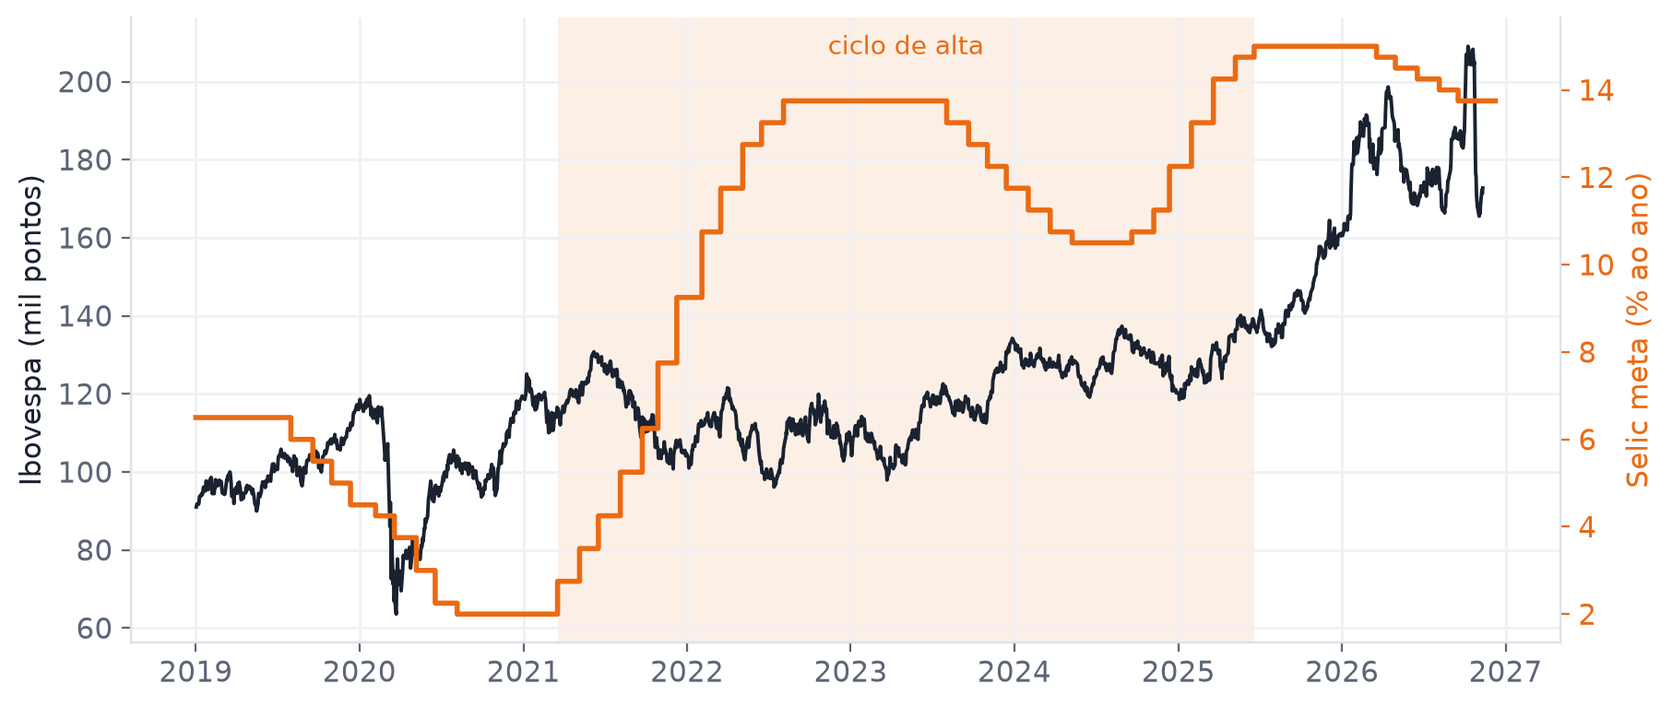
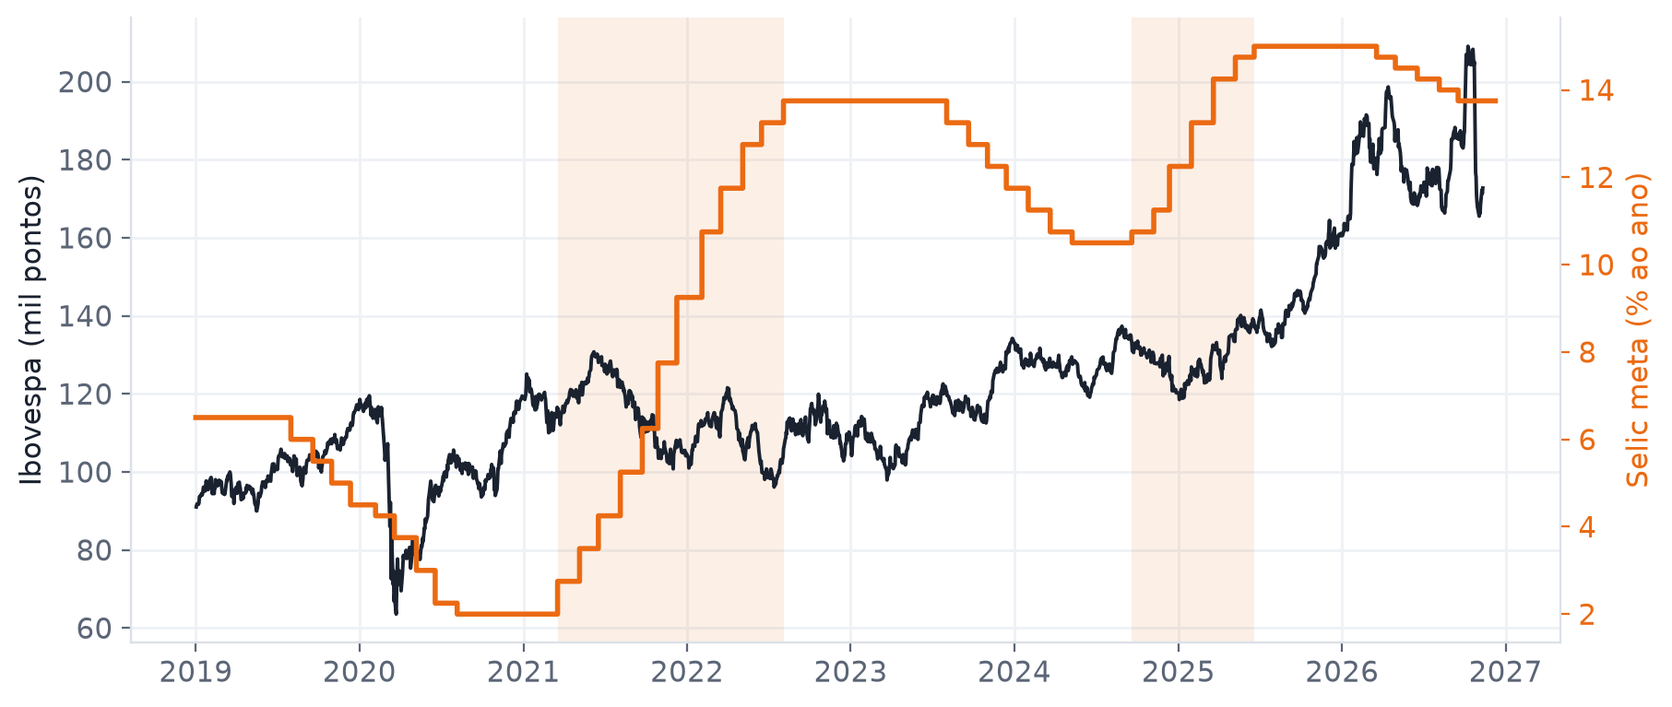
Inclui a eleição de 2026, separa os dois ciclos de alta da Selic e ajusta textos e gráficos
Claude-Session: https://claude.ai/code/session_011L5h6MgqsM4BBUunXoty9V

Changed region(s): [[0.4633, 0.0, 0.6795, 0.9296]]

diff --git a/docs/index.html b/docs/index.html
@@ -4,7 +4,7 @@
 <meta charset="UTF-8">
 <meta name="viewport" content="width=device-width, initial-scale=1">
 <title>O Mercado Não Mente | Vitor Del Bosque Lima</title>
-<meta name="description" content="Análise de dados da bolsa brasileira: pandemia, juros e eleição contados pelos preços.">
+<meta name="description" content="Análise de dados da bolsa brasileira: pandemia, juros e eleições contados pelos preços.">
 <link rel="preconnect" href="https://fonts.googleapis.com"><link rel="preconnect" href="https://fonts.gstatic.com" crossorigin>
 <link href="https://fonts.googleapis.com/css2?family=Bricolage+Grotesque:opsz,wght@12..96,700;12..96,800&family=IBM+Plex+Sans:wght@400;500;600&display=swap" rel="stylesheet">
 <style>
@@ -40,24 +40,25 @@ a{color:var(--accent)}
 <figure><img src="img/1_pandemia.png" alt="Gráfico do Ibovespa entre 2019 e 2021 com a queda da pandemia destacada"><figcaption>Ibovespa no fechamento diário. Fonte: Yahoo Finance.</figcaption></figure>
 
 <h2>2. O que aconteceu com a bolsa quando os juros subiram</h2>
-<p>Na pandemia o Banco Central baixou a Selic até 2,00% ao ano, o menor nível desde que a taxa existe. Em 18/03/2021 ele começou a subir de novo e só parou em 15,00%, em 19/06/2025.</p>
-<figure><img src="img/2_selic_ibovespa.png" alt="Ibovespa e Selic meta desde 2019"><figcaption>Ibovespa (linha escura) e Selic meta (laranja). A faixa marca o período de alta. Fontes: Yahoo Finance e Banco Central (série 432 do SGS).</figcaption></figure>
-<p>Minha hipótese era simples. Com juro alto, comprar a prazo fica caro, então o varejo deveria sofrer, e banco tende a lucrar mais com crédito. Comparei o Ibovespa com o Itaú e a Magazine Luiza durante a alta: o índice terminou em +20,8%, o Itaú em <span class="num">+83,2%</span> e a Magazine Luiza em <span class="num">-95,4%</span>.</p>
+<p>Na pandemia o Banco Central baixou a Selic até 2,00% ao ano, o menor nível desde que a taxa existe. Em 18/03/2021 ele começou a subir de novo e chegou a 13,75% em 04/08/2022. Depois de um tempo parada, a taxa caiu até 10,50%, voltou a subir em 19/09/2024 e foi até 15,00%, em 19/06/2025. O corte seguinte só começou em 19/03/2026.</p>
+<figure><img src="img/2_selic_ibovespa.png" alt="Ibovespa e Selic meta desde 2019"><figcaption>Ibovespa (linha escura) e Selic meta (laranja). As faixas marcam os dois períodos de alta. Fontes: Yahoo Finance e Banco Central (série 432 do SGS).</figcaption></figure>
+<p>Minha hipótese era simples. Com juro alto, comprar a prazo fica caro, então o varejo deveria sofrer, e banco tende a lucrar mais com crédito. Comparei o Ibovespa com o Itaú e a Magazine Luiza durante a primeira alta, de 2,00% para 13,75%: o índice terminou em -7,8%, o Itaú em <span class="num">-10,2%</span> e a Magazine Luiza em <span class="num">-85,0%</span>.</p>
 <figure><img src="img/3_vencedores_perdedores.png" alt="Itaú, Ibovespa e Magazine Luiza em base 100 no ciclo de alta da Selic"><figcaption>Base 100 no primeiro dia de alta da Selic.</figcaption></figure>
-<p>Dessa vez a hipótese bateu. A distância entre os dois foi de 179 pontos percentuais no mesmo intervalo, com a mesma taxa de juros valendo para os dois.</p>
+<p>Só metade da hipótese bateu. A Magazine Luiza derreteu, mas o Itaú não se salvou e terminou um pouco abaixo do próprio Ibovespa. Uma explicação possível é que o juro alto deixa o crédito mais caro, mas também faz mais gente atrasar pagamento, e uma coisa compensou a outra.</p>
 
-<h2>3. O dia seguinte ao primeiro turno de 2022</h2>
-<p>No pregão depois do primeiro turno, Petrobras andou <span class="num">+8,0%</span>. Num dia comum daquele ano, a oscilação típica era de 2,3%, então o movimento foi umas 3 vezes maior que o normal.</p>
-<table><thead><tr><th>Ativo</th><th>1º turno (02/10/2022)</th><th>2º turno (30/10/2022)</th><th>Dia típico em 2022</th></tr></thead><tbody><tr><td>Ibovespa</td><td>+5,5%</td><td>+1,3%</td><td>1,2%</td></tr><tr><td>Petrobras</td><td>+8,0%</td><td>-8,5%</td><td>2,3%</td></tr><tr><td>Itaú</td><td>+6,1%</td><td>+2,9%</td><td>1,5%</td></tr><tr><td>Vale</td><td>+2,7%</td><td>-0,5%</td><td>2,4%</td></tr></tbody></table>
-<figure><img src="img/4_eleicao.png" alt="Variação dos ativos nos pregões seguintes aos turnos da eleição de 2022"><figcaption>Variação no pregão seguinte a cada turno. O dia típico é o desvio padrão dos retornos diários de janeiro a setembro de 2022.</figcaption></figure>
+<h2>3. O dia seguinte às eleições de 2022 e 2026</h2>
+<p>Em 2022, no pregão depois do primeiro turno, o Ibovespa subiu 5,5%, umas 5 vezes a oscilação de um dia comum daquele ano, e a Petrobras subiu 8,0%. No segundo turno, a Petrobras fez o caminho contrário e caiu 8,5%.</p>
+<p>Em 2026 os movimentos foram maiores. No pregão depois do primeiro turno, o Ibovespa subiu 7,7%, umas 7 vezes a oscilação de um dia comum daquele ano, e o Itaú subiu 10,4%. Depois do segundo turno, o índice caiu 13,9%, a maior queda num dia desde 16/03/2020, no começo da pandemia. Como passou de 10%, a queda acionou o circuit breaker da B3, que paralisa os negócios por meia hora.</p>
+<table><thead><tr><th>Pregão seguinte ao</th><th>Ibovespa</th><th>Petrobras</th><th>Itaú</th><th>Vale</th></tr></thead><tbody><tr><td>1º turno, 2022</td><td>+5,5%</td><td>+8,0%</td><td>+6,1%</td><td>+2,7%</td></tr><tr><td>2º turno, 2022</td><td>+1,3%</td><td>-8,5%</td><td>+2,9%</td><td>-0,5%</td></tr><tr><td>1º turno, 2026</td><td>+7,7%</td><td>+8,2%</td><td>+10,4%</td><td>-1,0%</td></tr><tr><td>2º turno, 2026</td><td>-13,9%</td><td>-8,2%</td><td>-13,7%</td><td>+4,0%</td></tr></tbody></table>
+<figure><img src="img/4_eleicao.png" alt="Variação dos ativos nos pregões seguintes aos turnos das eleições de 2022 e 2026"><figcaption>Variação no pregão seguinte a cada turno. Num dia comum de janeiro a setembro, o Ibovespa oscilava cerca de 1,2% nos dois anos (desvio padrão dos retornos diários).</figcaption></figure>
 
 <h2>4. Quem ganhou da inflação desde 2019</h2>
-<p>No período, o IPCA acumulou +50,4%. Então não basta o ativo subir, ele precisa subir mais que isso para o dinheiro valer mais do que no começo. Magazine Luiza e Dólar não conseguiram.</p>
+<p>No período, o IPCA acumulou +50,4%. Então não basta o ativo subir, ele precisa subir mais que isso para o dinheiro valer mais do que no começo. A Magazine Luiza e o dólar não conseguiram.</p>
 <figure><img src="img/5_acumulado.png" alt="Quanto viraram mil reais aplicados em cada ativo desde 2019"><figcaption>Preços ajustados por dividendos e desdobramentos. As barras em laranja ficaram abaixo da inflação. Fontes: Yahoo Finance e Banco Central (série 433 do SGS).</figcaption></figure>
 
 <h2>De onde vêm os números</h2>
 <p>Os preços vêm do Yahoo Finance pela biblioteca yfinance, e a Selic e o IPCA vêm da API do Banco Central. Tratei tudo em Python com pandas e fiz os gráficos com matplotlib. Os números do texto são calculados pelo próprio código, que roda de novo toda sexta pelo GitHub Actions, então esta página se atualiza sozinha.</p>
-<p>Uma ressalva importante: olhar o preço em volta de um fato não prova que o fato causou o movimento, porque muita coisa acontece ao mesmo tempo. E nada aqui é recomendação de investimento.</p>
+<p>Olhar o preço em volta de um fato não prova que foi ele que causou o movimento, porque muita coisa acontece ao mesmo tempo. E nada aqui é recomendação de investimento.</p>
 
-<div class="meta">Dados atualizados em 2026-11-11. Código em <a href="https://github.com/VitorDBL/o-mercado-nao-mente">github.com/VitorDBL/o-mercado-nao-mente</a> · <a href="https://vitordbl.github.io">vitordbl.github.io</a></div>
+<div class="meta">Dados atualizados em 11/11/2026. Código em <a href="https://github.com/VitorDBL/o-mercado-nao-mente">github.com/VitorDBL/o-mercado-nao-mente</a> · <a href="https://vitordbl.github.io">vitordbl.github.io</a></div>
 </main></body></html>

diff --git a/src/analise.py b/src/analise.py
@@ -40,6 +40,7 @@ plt.rcParams.update({
     "xtick.color": "#5B6576",
     "ytick.color": "#5B6576",
     "axes.grid": True,
+    "axes.axisbelow": True,
     "grid.color": "#EEF1F5",
     "grid.linewidth": 1,
     "figure.dpi": 100,
@@ -136,12 +137,26 @@ def ciclos_selic(selic: pd.Series) -> dict:
     piso = s[piso_data]
     sobe = s[piso_data:]
     inicio_alta = sobe[sobe > piso].index[0]
-    teto = s[inicio_alta:].max()
-    teto_data = s[inicio_alta:][s[inicio_alta:] == teto].index[0]
+    # fim da primeira alta: último aumento antes do primeiro corte
+    depois = s[inicio_alta:]
+    primeiro_corte = depois[depois.diff() < 0].index
+    ate_corte = depois[:primeiro_corte[0]] if len(primeiro_corte) else depois
+    teto1 = ate_corte.max()
+    teto1_data = ate_corte[ate_corte == teto1].index[0]
+    teto = depois.max()
+    teto_data = depois[depois == teto].index[0]
+    piso2 = s[teto1_data:teto_data].min() if teto_data > teto1_data else None
+    piso2_data = s[teto1_data:teto_data].idxmin() if piso2 is not None else None
+    if piso2 is not None:
+        subida2 = s[piso2_data:teto_data]
+        inicio_alta2 = subida2[subida2 > piso2].index[0]
+    else:
+        inicio_alta2 = None
     apos = s[teto_data:]
     cortes = apos[apos < teto]
     inicio_corte = cortes.index[0] if len(cortes) else None
-    return {"piso": piso, "inicio_alta": inicio_alta, "teto": teto, "teto_data": teto_data,
+    return {"piso": piso, "inicio_alta": inicio_alta, "teto1": teto1, "teto1_data": teto1_data,
+            "piso2": piso2, "inicio_alta2": inicio_alta2, "teto": teto, "teto_data": teto_data,
             "inicio_corte": inicio_corte}
 
 
@@ -153,7 +168,7 @@ def juros(d: Dados) -> dict:
         serie = p[col][a:b]
         return serie.iloc[-1] / serie.iloc[0] - 1
 
-    alta = (c["inicio_alta"], c["teto_data"])
+    alta = (c["inicio_alta"], c["teto1_data"])
     ativos = ["Ibovespa", "Itaú (ITUB4)", "Magazine Luiza (MGLU3)"]
     ret_alta = {a: ret(a, *alta) for a in ativos}
 
@@ -162,6 +177,8 @@ def juros(d: Dados) -> dict:
     ax.plot(ibov.index, ibov / 1000, color=GRAFITE, lw=1.4, label="Ibovespa (mil pontos)")
     ax.set_ylabel("Ibovespa (mil pontos)")
     ax.axvspan(*alta, color=LARANJA, alpha=0.10, lw=0)
+    if c["inicio_alta2"] is not None:
+        ax.axvspan(c["inicio_alta2"], c["teto_data"], color=LARANJA, alpha=0.10, lw=0)
     ax2 = ax.twinx()
     selic = d.selic.resample("D").ffill()["2019-01-01":]
     ax2.step(selic.index, selic, where="post", color=LARANJA, lw=2, label="Selic meta (% a.a.)")
@@ -170,8 +187,6 @@ def juros(d: Dados) -> dict:
     ax2.grid(False)
     ax2.spines["right"].set_visible(True)
     ax2.spines["right"].set_color(CINZA_CLARO)
-    ax.text(alta[0] + (alta[1] - alta[0]) / 2, ax.get_ylim()[1] * 0.98, "ciclo de alta",
-            ha="center", va="top", color=LARANJA, fontsize=10)
     fmt_eixo_data(ax)
     img1 = salvar(fig, "2_selic_ibovespa.png")
 
@@ -179,13 +194,22 @@ def juros(d: Dados) -> dict:
     base = base / base.iloc[0] * 100
     fig, ax = plt.subplots(figsize=(10, 4.4))
     cores = {"Ibovespa": GRAFITE, "Itaú (ITUB4)": LARANJA, "Magazine Luiza (MGLU3)": AZUL}
+    # posições dos rótulos no fim das linhas, afastadas para não encostarem
+    finais = sorted(ativos, key=lambda a: base[a].iloc[-1])
+    pos, ultimo = {}, None
+    for a in finais:
+        y = base[a].iloc[-1]
+        if ultimo is not None and y - ultimo < 7:
+            y = ultimo + 7
+        pos[a] = ultimo = y
     for a in ativos:
         ax.plot(base.index, base[a], color=cores[a], lw=1.8)
         ax.annotate(f"{a.split(' (')[0]} {pct(ret_alta[a], 0)}", (base.index[-1], base[a].iloc[-1]),
-                    xytext=(6, 0), textcoords="offset points", va="center", color=cores[a],
+                    xytext=(base.index[-1] + pd.Timedelta(days=10), pos[a]), textcoords="data", va="center", color=cores[a],
                     fontsize=10, fontweight="bold")
     ax.axhline(100, color=CINZA, lw=1, ls="--")
     ax.set_ylabel("Base 100 no início da alta")
+    ax.set_xlim(right=base.index[-1] + (base.index[-1] - base.index[0]) * 0.16)
     ax.xaxis.set_major_formatter(mdates.DateFormatter("%b/%y"))
     img2 = salvar(fig, "3_vencedores_perdedores.png")
 
@@ -195,7 +219,9 @@ def juros(d: Dados) -> dict:
 # ---------------------------------------------------------------- capítulo 3
 def eleicao(d: Dados) -> dict:
     p = d.precos
-    datas = {"1º turno (02/10/2022)": "2022-10-03", "2º turno (30/10/2022)": "2022-10-31"}
+    datas = {"1º turno de 2022": "2022-10-03", "2º turno de 2022": "2022-10-31",
+             "1º turno de 2026": "2026-10-05", "2º turno de 2026": "2026-10-26"}
+    datas = {r: d_ for r, d_ in datas.items() if pd.Timestamp(d_) <= p.index.max()}
     ativos = ["Ibovespa", "Petrobras (PETR4)", "Itaú (ITUB4)", "Vale (VALE3)"]
     diarios = p[ativos].pct_change()
     tabela = {}
@@ -203,25 +229,41 @@ def eleicao(d: Dados) -> dict:
         dia = diarios.index[diarios.index.get_indexer([pd.Timestamp(dia)], method="bfill")[0]]
         tabela[rotulo] = {a: diarios.loc[dia, a] for a in ativos}
 
-    vol_normal = diarios["2022-01-01":"2022-09-30"].std()
+    anos = sorted({r[-4:] for r in tabela})
+    vol_normal = {ano: diarios[f"{ano}-01-01":f"{ano}-09-30"].std() for ano in anos}
 
-    fig, ax = plt.subplots(figsize=(10, 4.2))
+    # maior queda do Ibovespa num dia antes de cada pregão de eleição, para dar escala
+    ibov = diarios["Ibovespa"]
+
+    fig, eixos = plt.subplots(1, len(anos), figsize=(10, 4.4), sharey=True, squeeze=False)
     largura = 0.38
     xs = range(len(ativos))
-    for k, (rotulo, cor) in enumerate(zip(tabela, [LARANJA, GRAFITE])):
-        vals = [tabela[rotulo][a] * 100 for a in ativos]
-        barras = ax.bar([x + (k - 0.5) * largura for x in xs], vals, largura, color=cor, label=rotulo)
-        for b, v in zip(barras, vals):
-            ax.annotate(f"{v:+.1f}%".replace(".", ","), (b.get_x() + b.get_width() / 2, v),
-                        xytext=(0, 4 if v >= 0 else -14), textcoords="offset points",
-                        ha="center", fontsize=9, color=GRAFITE)
-    ax.axhline(0, color=GRAFITE, lw=0.8)
-    ax.set_xticks(list(xs), [a.split(" (")[0] for a in ativos])
-    ax.set_ylabel("Variação no pregão seguinte (%)")
-    ax.legend(frameon=False, loc="lower left")
+    for ax, ano in zip(eixos[0], anos):
+        turnos = [r for r in tabela if r.endswith(ano)]
+        for k, (rotulo, cor) in enumerate(zip(turnos, [LARANJA, GRAFITE])):
+            vals = [tabela[rotulo][a] * 100 for a in ativos]
+            barras = ax.bar([x + (k - 0.5) * largura for x in xs], vals, largura, color=cor,
+                            label=rotulo.split(" de ")[0])
+            for b, v in zip(barras, vals):
+                ax.annotate(f"{v:+.1f}%".replace(".", ","), (b.get_x() + b.get_width() / 2, v),
+                            xytext=(0, 4 if v >= 0 else -13), textcoords="offset points",
+                            ha="center", fontsize=8.5, color=GRAFITE)
+        ax.axhline(0, color=GRAFITE, lw=0.8)
+        ax.set_xticks(list(xs), [a.split(" (")[0] for a in ativos], fontsize=9)
+        ax.set_title(f"Eleição de {ano}", fontsize=11, loc="left", color=GRAFITE)
+    eixos[0][0].set_ylabel("Variação no pregão seguinte (%)")
+    eixos[0][0].legend(frameon=False, loc="lower left")
     img = salvar(fig, "4_eleicao.png")
 
-    return {"tabela": tabela, "vol_normal": vol_normal, "img": img}
+    pior = {}
+    for rotulo, dia in datas.items():
+        dia = diarios.index[diarios.index.get_indexer([pd.Timestamp(dia)], method="bfill")[0]]
+        v = ibov.loc[dia]
+        antes = ibov[:dia].iloc[:-1]
+        pior_antes = antes[antes <= v]
+        pior[rotulo] = pior_antes.index[-1] if (v < 0 and len(pior_antes)) else None
+
+    return {"tabela": tabela, "vol_normal": vol_normal, "pior_desde": pior, "img": img}
 
 
 # ---------------------------------------------------------------- capítulo 4
@@ -242,9 +284,8 @@ def acumulado(d: Dados) -> dict:
         ax.annotate(f"R$ {v:,.0f}".replace(",", "."), (v, b.get_y() + b.get_height() / 2),
                     xytext=(6, 0), textcoords="offset points", va="center", fontsize=10, color=GRAFITE)
     ax.axvline(1000 * (1 + inflacao), color=CINZA, ls="--", lw=1.2)
-    ax.annotate(f"R$ 1.000 corrigidos pela\ninflação: R$ {1000 * (1 + inflacao):,.0f}".replace(",", "."),
-                (1000 * (1 + inflacao), len(ordem) - 0.5), xytext=(6, 0), textcoords="offset points",
-                fontsize=9, color="#5B6576", va="top")
+    ax.text(1000 * (1 + inflacao), 1.01, f"inflação: R$ {1000 * (1 + inflacao):,.0f}".replace(",", "."),
+            transform=ax.get_xaxis_transform(), ha="center", va="bottom", fontsize=9, color="#5B6576")
     ax.set_xlabel(f"Quanto viraram R$ 1.000 aplicados em {br(inicio)}")
     ax.grid(axis="y", visible=False)
     img = salvar(fig, "5_acumulado.png")
@@ -254,6 +295,64 @@ def acumulado(d: Dados) -> dict:
 
 
 # ---------------------------------------------------------------- relatório
+ARTIGOS = {"Ibovespa": "o Ibovespa", "Petrobras": "a Petrobras", "Itaú": "o Itaú", "Vale": "a Vale",
+           "Magazine Luiza": "a Magazine Luiza", "Dólar": "o dólar"}
+
+
+def com_artigo(ativo: str) -> str:
+    nome = ativo.split(" (")[0]
+    return ARTIGOS.get(nome, nome)
+
+
+def _mov(v: float) -> str:
+    return f"{'subiu' if v > 0 else 'caiu'} {pct(abs(v)).lstrip('+')}"
+
+
+def texto_eleicao(c3) -> str:
+    tab, vol = c3["tabela"], c3["vol_normal"]
+    paragrafos = []
+    anos = list(vol)
+    for i, ano in enumerate(anos):
+        t1, t2 = (tab.get(f"1º turno de {ano}"), tab.get(f"2º turno de {ano}"))
+        normal = vol[ano]
+        frases = []
+        if t1:
+            ib = t1["Ibovespa"]
+            m = max(t1, key=lambda a: abs(t1[a]))
+            f = f"Em {ano}, no pregão depois do primeiro turno, o Ibovespa {_mov(ib)}"
+            vezes = abs(ib) / normal["Ibovespa"]
+            if vezes >= 2:
+                f += f", umas {num(vezes, 0)} vezes a oscilação de um dia comum daquele ano"
+            if m != "Ibovespa" and abs(t1[m]) > abs(ib):
+                f += f", e {com_artigo(m)} {_mov(t1[m])}"
+            f += "."
+            if i > 0 and max(abs(v) for v in t1.values()) > max(abs(v) for v in tab[f"1º turno de {anos[0]}"].values()):
+                f = f.replace(f"Em {ano}, no", f"Em {ano} os movimentos foram maiores. No", 1)
+            frases.append(f)
+        if t2:
+            ib = t2["Ibovespa"]
+            if abs(ib) >= 2 * normal["Ibovespa"]:
+                f = f"Depois do segundo turno, o índice {_mov(ib)}"
+                desde = c3["pior_desde"].get(f"2º turno de {ano}")
+                if ib < 0 and desde is not None:
+                    f += f", a maior queda num dia desde {br(desde)}"
+                    if desde.year == 2020:
+                        f += ", no começo da pandemia"
+                f += "."
+                if ib <= -0.10:
+                    f += " Como passou de 10%, a queda acionou o circuit breaker da B3, que paralisa os negócios por meia hora."
+            else:
+                m = max(t2, key=lambda a: abs(t2[a]))
+                if t1 and t1[m] * t2[m] < 0:
+                    f = f"No segundo turno, {com_artigo(m)} fez o caminho contrário e {_mov(t2[m])}."
+                else:
+                    f = f"No segundo turno, o maior movimento foi d{com_artigo(m)}, que {_mov(t2[m])}."
+            frases.append(f)
+        if frases:
+            paragrafos.append("<p>" + " ".join(frases) + "</p>")
+    return "\n".join(paragrafos)
+
+
 def relatorio(d: Dados, c1, c2, c3, c4) -> str:
     rec_txt = (f"A volta demorou bem mais. O índice só fechou acima do topo anterior em {br(c1['recuperacao_data'])}, "
                f"uns {num(c1['meses_recuperacao'], 0)} meses depois do fundo."
@@ -265,30 +364,47 @@ def relatorio(d: Dados, c1, c2, c3, c4) -> str:
         hipotese_txt = (f"Dessa vez a hipótese bateu. A distância entre os dois foi de {num(abs(itau - magalu) * 100, 0)} "
                         "pontos percentuais no mesmo intervalo, com a mesma taxa de juros valendo para os dois.")
     elif itau > magalu:
-        hipotese_txt = ("A ordem foi a que eu esperava, com o Itaú na frente da Magazine Luiza, mas o Ibovespa não ficou no meio "
-                        "do caminho, então não dá para dizer que o juro explica tudo.")
+        hipotese_txt = (f"Só metade da hipótese bateu. A Magazine Luiza derreteu, mas o Itaú não se salvou e terminou "
+                        f"um pouco abaixo do próprio Ibovespa. Uma explicação possível é que o juro alto deixa o crédito "
+                        f"mais caro, mas também faz mais gente atrasar pagamento, e uma coisa compensou a outra.")
     else:
         hipotese_txt = ("Aqui a hipótese não se confirmou: a Magazine Luiza foi melhor que o Itaú no período. "
                         "Outros fatores pesaram mais que o juro.")
 
+    eleicao_txt = texto_eleicao(c3)
+    turnos = list(c3["tabela"])
+    ativos_el = list(next(iter(c3["tabela"].values())))
     linhas_eleicao = "".join(
-        f"<tr><td>{a.split(' (')[0]}</td>" + "".join(f"<td>{pct(c3['tabela'][r][a])}</td>" for r in c3["tabela"]) +
-        f"<td>{pct(c3['vol_normal'][a]).lstrip('+')}</td></tr>"
-        for a in next(iter(c3["tabela"].values()))
+        f"<tr><td>{r.replace(' de ', ', ')}</td>" + "".join(f"<td>{pct(c3['tabela'][r][a])}</td>" for a in ativos_el) + "</tr>"
+        for r in turnos
     )
-    primeiro = next(iter(c3["tabela"].values()))
-    maior_mov = max(primeiro, key=lambda a: abs(primeiro[a]))
-    vezes = abs(primeiro[maior_mov]) / c3["vol_normal"][maior_mov]
-    comparacao_txt = (f", então o movimento foi umas {num(vezes, 0)} vezes maior que o normal." if vezes >= 2
-                      else ". Ou seja, o dia foi agitado, mas dentro do que se via naquele ano.")
+    cab_eleicao = "".join(f"<th>{a.split(' (')[0]}</th>" for a in ativos_el)
+    tipicos = {ano: pct(v["Ibovespa"]).lstrip("+") for ano, v in c3["vol_normal"].items()}
+    if len(set(tipicos.values())) == 1:
+        tipico = f"cerca de {next(iter(tipicos.values()))}" + (" nos dois anos" if len(tipicos) == 2 else "")
+    else:
+        tipico = " e ".join(f"{v} em {ano}" for ano, v in tipicos.items())
 
-    perderam = [a.split(" (")[0] for a in c4["perderam"]]
+    perderam = [com_artigo(a) for a in c4["perderam"]]
     if not perderam:
         perderam_frase = "Todos os ativos que escolhi conseguiram."
     elif len(perderam) == 1:
         perderam_frase = f"Só {perderam[0]} não conseguiu."
     else:
-        perderam_frase = ", ".join(perderam[:-1]) + " e " + perderam[-1] + " não conseguiram."
+        lista = ", ".join(perderam[:-1]) + " e " + perderam[-1]
+        perderam_frase = lista[0].upper() + lista[1:] + " não conseguiram."
+
+    selic_txt = f"Em {br(c2['inicio_alta'])} ele começou a subir de novo e chegou a {num(c2['teto1'], 2)}% em {br(c2['teto1_data'])}."
+    if c2.get("piso2") is not None:
+        selic_txt += (f" Depois de um tempo parada, a taxa caiu até {num(c2['piso2'], 2)}%, voltou a subir em "
+                      f"{br(c2['inicio_alta2'])} e foi até {num(c2['teto'], 2)}%, em {br(c2['teto_data'])}.")
+    if c2.get("inicio_corte") is not None:
+        selic_txt += f" O corte seguinte só começou em {br(c2['inicio_corte'])}."
+    atualizado = d.atualizado[:10]
+    try:
+        atualizado = br(pd.Timestamp(atualizado))
+    except Exception:
+        atualizado = br(c4["fim"])
 
     return f"""<!DOCTYPE html>
 <html lang="pt-BR">
@@ -296,7 +412,7 @@ def relatorio(d: Dados, c1, c2, c3, c4) -> str:
 <meta charset="UTF-8">
 <meta name="viewport" content="width=device-width, initial-scale=1">
 <title>O Mercado Não Mente | Vitor Del Bosque Lima</title>
-<meta name="description" content="Análise de dados da bolsa brasileira: pandemia, juros e eleição contados pelos preços.">
+<meta name="description" content="Análise de dados da bolsa brasileira: pandemia, juros e eleições contados pelos preços.">
 <link rel="preconnect" href="https://fonts.googleapis.com"><link rel="preconnect" href="https://fonts.gstatic.com" crossorigin>
 <link href="https://fonts.googleapis.com/css2?family=Bricolage+Grotesque:opsz,wght@12..96,700;12..96,800&family=IBM+Plex+Sans:wght@400;500;600&display=swap" rel="stylesheet">
 <style>
@@ -332,16 +448,16 @@ a{{color:var(--accent)}}
 <figure><img src="{c1['img']}" alt="Gráfico do Ibovespa entre 2019 e 2021 com a queda da pandemia destacada"><figcaption>Ibovespa no fechamento diário. Fonte: Yahoo Finance.</figcaption></figure>
 
 <h2>2. O que aconteceu com a bolsa quando os juros subiram</h2>
-<p>Na pandemia o Banco Central baixou a Selic até {num(c2['piso'], 2)}% ao ano, o menor nível desde que a taxa existe. Em {br(c2['inicio_alta'])} ele começou a subir de novo e só parou em {num(c2['teto'], 2)}%, em {br(c2['teto_data'])}.</p>
-<figure><img src="{c2['img1']}" alt="Ibovespa e Selic meta desde 2019"><figcaption>Ibovespa (linha escura) e Selic meta (laranja). A faixa marca o período de alta. Fontes: Yahoo Finance e Banco Central (série 432 do SGS).</figcaption></figure>
-<p>Minha hipótese era simples. Com juro alto, comprar a prazo fica caro, então o varejo deveria sofrer, e banco tende a lucrar mais com crédito. Comparei o Ibovespa com o Itaú e a Magazine Luiza durante a alta: o índice terminou em {pct(ra['Ibovespa'])}, o Itaú em <span class="num">{pct(ra['Itaú (ITUB4)'])}</span> e a Magazine Luiza em <span class="num">{pct(ra['Magazine Luiza (MGLU3)'])}</span>.</p>
+<p>Na pandemia o Banco Central baixou a Selic até {num(c2['piso'], 2)}% ao ano, o menor nível desde que a taxa existe. {selic_txt}</p>
+<figure><img src="{c2['img1']}" alt="Ibovespa e Selic meta desde 2019"><figcaption>Ibovespa (linha escura) e Selic meta (laranja). As faixas marcam os dois períodos de alta. Fontes: Yahoo Finance e Banco Central (série 432 do SGS).</figcaption></figure>
+<p>Minha hipótese era simples. Com juro alto, comprar a prazo fica caro, então o varejo deveria sofrer, e banco tende a lucrar mais com crédito. Comparei o Ibovespa com o Itaú e a Magazine Luiza durante a primeira alta, de {num(c2['piso'], 2)}% para {num(c2['teto1'], 2)}%: o índice terminou em {pct(ra['Ibovespa'])}, o Itaú em <span class="num">{pct(ra['Itaú (ITUB4)'])}</span> e a Magazine Luiza em <span class="num">{pct(ra['Magazine Luiza (MGLU3)'])}</span>.</p>
 <figure><img src="{c2['img2']}" alt="Itaú, Ibovespa e Magazine Luiza em base 100 no ciclo de alta da Selic"><figcaption>Base 100 no primeiro dia de alta da Selic.</figcaption></figure>
 <p>{hipotese_txt}</p>
 
-<h2>3. O dia seguinte ao primeiro turno de 2022</h2>
-<p>No pregão depois do primeiro turno, {maior_mov.split(' (')[0]} andou <span class="num">{pct(primeiro[maior_mov])}</span>. Num dia comum daquele ano, a oscilação típica era de {pct(c3['vol_normal'][maior_mov]).lstrip('+')}{comparacao_txt}</p>
-<table><thead><tr><th>Ativo</th>{''.join(f'<th>{r}</th>' for r in c3['tabela'])}<th>Dia típico em 2022</th></tr></thead><tbody>{linhas_eleicao}</tbody></table>
-<figure><img src="{c3['img']}" alt="Variação dos ativos nos pregões seguintes aos turnos da eleição de 2022"><figcaption>Variação no pregão seguinte a cada turno. O dia típico é o desvio padrão dos retornos diários de janeiro a setembro de 2022.</figcaption></figure>
+<h2>3. O dia seguinte às eleições de 2022 e 2026</h2>
+{eleicao_txt}
+<table><thead><tr><th>Pregão seguinte ao</th>{cab_eleicao}</tr></thead><tbody>{linhas_eleicao}</tbody></table>
+<figure><img src="{c3['img']}" alt="Variação dos ativos nos pregões seguintes aos turnos das eleições de 2022 e 2026"><figcaption>Variação no pregão seguinte a cada turno. Num dia comum de janeiro a setembro, o Ibovespa oscilava {tipico} (desvio padrão dos retornos diários).</figcaption></figure>
 
 <h2>4. Quem ganhou da inflação desde 2019</h2>
 <p>No período, o IPCA acumulou {pct(c4['inflacao'])}. Então não basta o ativo subir, ele precisa subir mais que isso para o dinheiro valer mais do que no começo. {perderam_frase}</p>
@@ -349,9 +465,9 @@ a{{color:var(--accent)}}
 
 <h2>De onde vêm os números</h2>
 <p>Os preços vêm do Yahoo Finance pela biblioteca yfinance, e a Selic e o IPCA vêm da API do Banco Central. Tratei tudo em Python com pandas e fiz os gráficos com matplotlib. Os números do texto são calculados pelo próprio código, que roda de novo toda sexta pelo GitHub Actions, então esta página se atualiza sozinha.</p>
-<p>Uma ressalva importante: olhar o preço em volta de um fato não prova que o fato causou o movimento, porque muita coisa acontece ao mesmo tempo. E nada aqui é recomendação de investimento.</p>
+<p>Olhar o preço em volta de um fato não prova que foi ele que causou o movimento, porque muita coisa acontece ao mesmo tempo. E nada aqui é recomendação de investimento.</p>
 
-<div class="meta">Dados atualizados em {d.atualizado or br(c4['fim'])}. Código em <a href="https://github.com/VitorDBL/o-mercado-nao-mente">github.com/VitorDBL/o-mercado-nao-mente</a> · <a href="https://vitordbl.github.io">vitordbl.github.io</a></div>
+<div class="meta">Dados atualizados em {atualizado}. Código em <a href="https://github.com/VitorDBL/o-mercado-nao-mente">github.com/VitorDBL/o-mercado-nao-mente</a> · <a href="https://vitordbl.github.io">vitordbl.github.io</a></div>
 </main></body></html>
 """
 

diff --git a/README.md b/README.md
@@ -1,6 +1,6 @@
 # O Mercado Não Mente
 
-Projeto pessoal de análise de dados em que olho como a bolsa brasileira reagiu à pandemia, ao ciclo de alta da Selic e à eleição de 2022, e quais ativos ganharam da inflação desde 2019.
+Projeto pessoal de análise de dados em que olho como a bolsa brasileira reagiu à pandemia, aos ciclos de alta da Selic e às eleições de 2022 e 2026, e quais ativos ganharam da inflação desde 2019.
 
 O relatório com os gráficos e as conclusões está em https://vitordbl.github.io/o-mercado-nao-mente/
 
